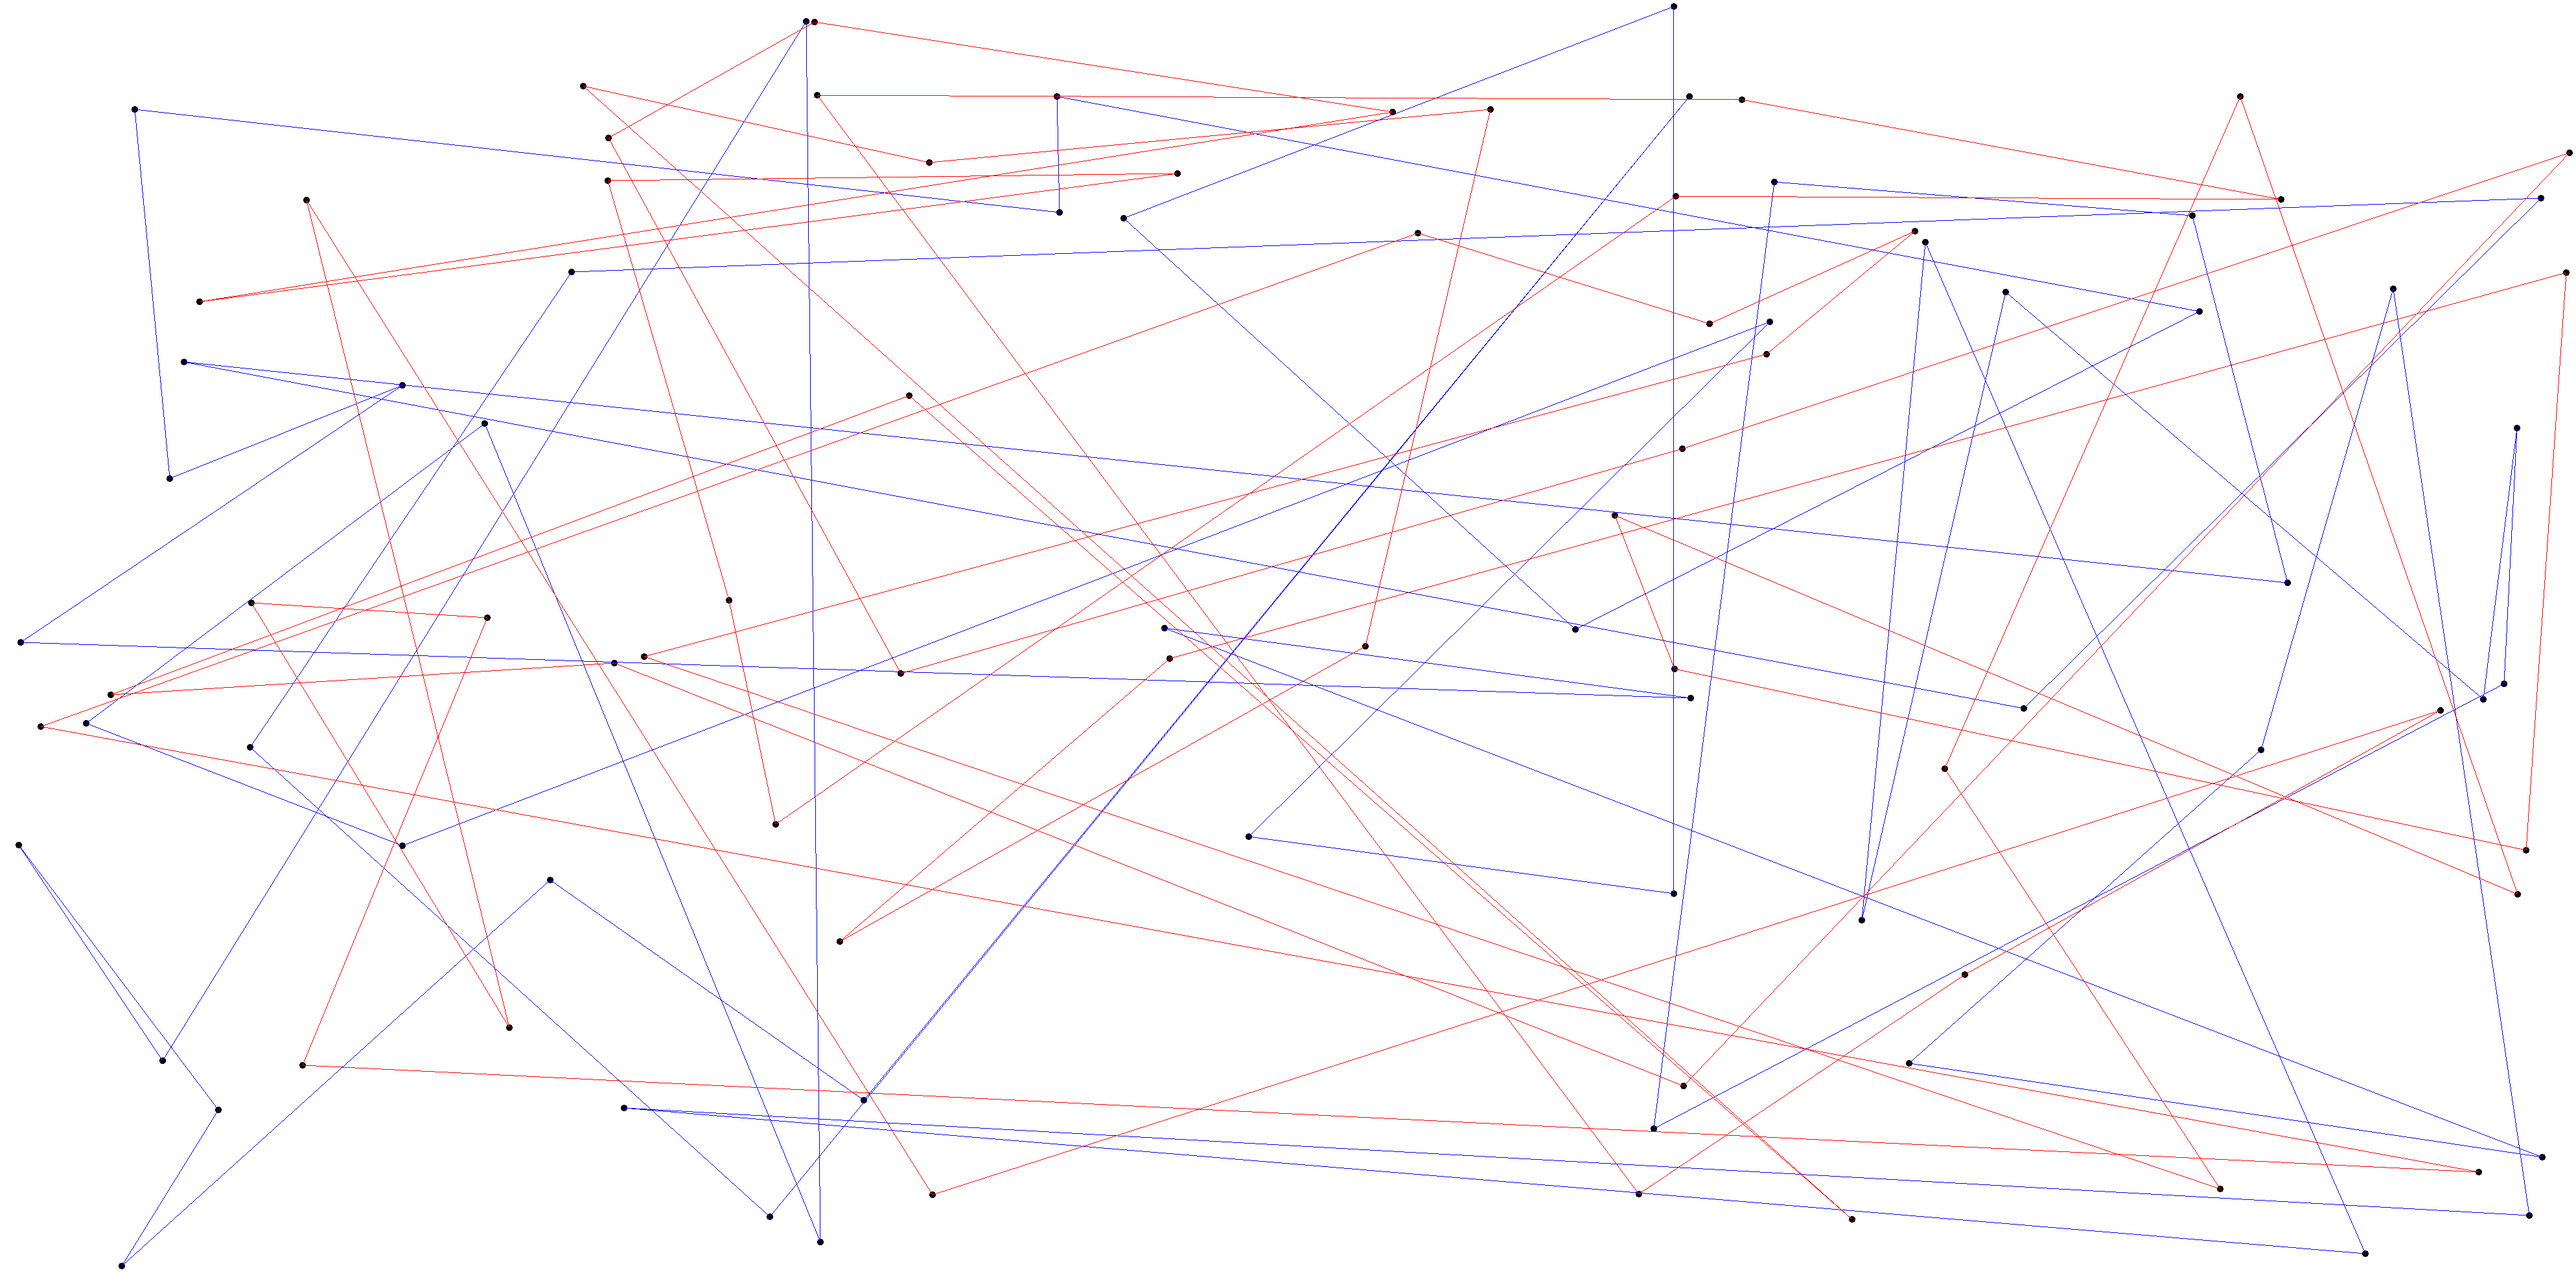
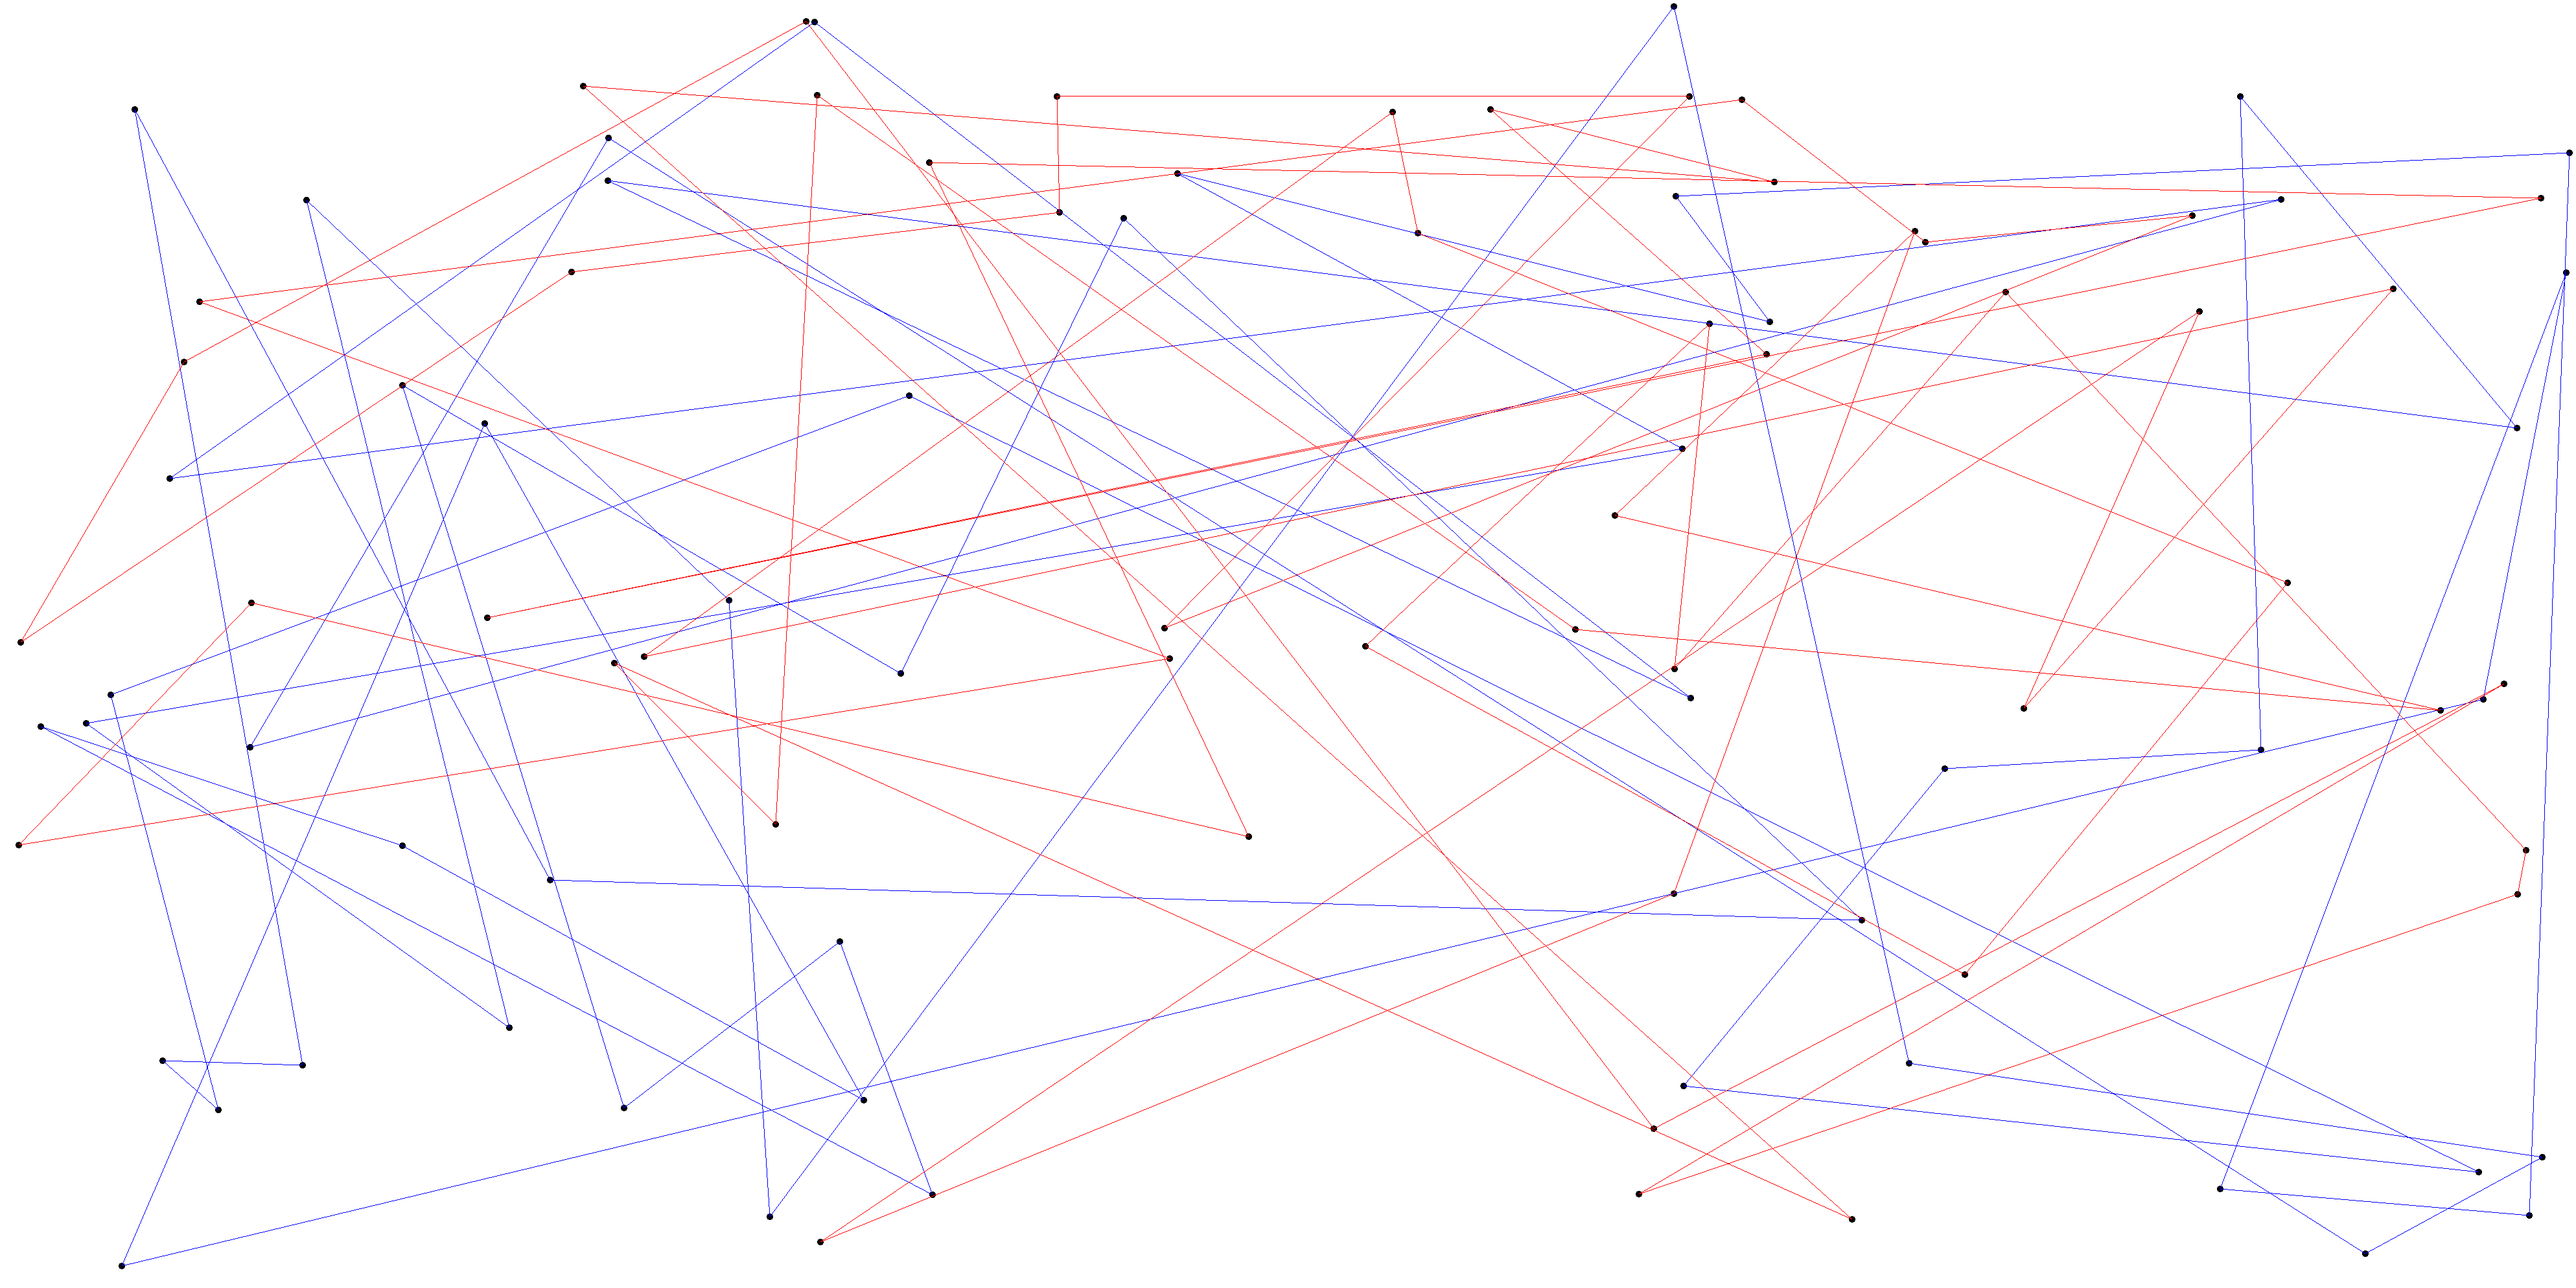
Poprawki w kandydackich

Changed region(s): [[0.6551, 0.2494, 0.6863, 0.2805]]

diff --git a/TSP/main.cpp b/TSP/main.cpp
@@ -96,9 +96,12 @@ std::string* testAlgorithm(std::shared_ptr <Graph>& graph, std::shared_ptr <Abst
 void exercise1()
 {
 	std::shared_ptr<TSPLoader> loader = std::make_shared<TSPLoader>();
-	std::string filenames[2] = { "kroA100.tsp", "kroB100.tsp" };
+	std::string filenames[2] = { "kroA200.tsp", "kroB200.tsp" };
 	std::string algorithmsResults = "";
-	std::string resultDir = "ResultsLab1/";
+	std::string* result;
+	std::string timeResults = "";
+
+	std::string resultDir = "ResultsLab3/";
 	for (int i = 0; i < 2; i++)
 	{
 		auto graph = loader->loadFile("Data/" + filenames[i]);
@@ -106,25 +109,33 @@ void exercise1()
 		std::cout << graph->getName() << std::endl;
 
 		algorithmsResults += graph->getName() + "\n";
-		algorithmsResults += testAlgorithm(graph, std::make_shared<NearestNeighbour>(), loader->getLocation(), resultDir + filenames[i])[0];
-		algorithmsResults += testAlgorithm(graph, std::make_shared<GreedyCycle>(), loader->getLocation(), resultDir + filenames[i])[0];
-		algorithmsResults += testAlgorithm(graph, std::make_shared<RegretHeuristics>(), loader->getLocation(), resultDir + filenames[i])[0];
-		algorithmsResults += testAlgorithm(graph, std::make_shared<RandomCycle>(), loader->getLocation(), resultDir + filenames[i])[0];
+		timeResults += graph->getName() + "\n";
+
+		//algorithmsResults += testAlgorithm(graph, std::make_shared<NearestNeighbour>(), loader->getLocation(), resultDir + filenames[i])[0];
+		//algorithmsResults += testAlgorithm(graph, std::make_shared<GreedyCycle>(), loader->getLocation(), resultDir + filenames[i])[0];
+		result = testAlgorithm(graph, std::make_shared<RegretHeuristics>(), loader->getLocation(), resultDir + filenames[i]);
+		algorithmsResults += result[0];
+		timeResults += result[1];
+		//algorithmsResults += testAlgorithm(graph, std::make_shared<RandomCycle>(), loader->getLocation(), resultDir + filenames[i])[0];
 
 	}
 
 
-	std::ofstream output;
+	std::ofstream output, outputTime;
 	output.open(resultDir + "Wyniki_algorytmow.txt");
 	output << algorithmsResults;
 	output.close();
+
+	outputTime.open(resultDir + "Wyniki_czasowe.txt");
+	outputTime << timeResults;
+	outputTime.close();
 }
 
 std::vector <std::shared_ptr <AbstractAlgorithm>> createAlgorithms(std::shared_ptr <AbstractAlgorithm> baseAlgorithm, std::shared_ptr <MovementManager> innerMove)
 {
 	return std::vector <std::shared_ptr <AbstractAlgorithm>> {
-		std::shared_ptr <AbstractAlgorithm>(new GreedyLocalSearch(baseAlgorithm,
-			innerMove, std::make_shared <OuterVertexSwapManager>())),
+		//std::shared_ptr <AbstractAlgorithm>(new GreedyLocalSearch(baseAlgorithm,
+		//	innerMove, std::make_shared <OuterVertexSwapManager>())),
 		std::shared_ptr <AbstractAlgorithm>(new SteepLocalSearch(baseAlgorithm,
 			innerMove, std::make_shared <OuterVertexSwapManager>()))
 	};
@@ -133,19 +144,19 @@ std::vector <std::shared_ptr <AbstractAlgorithm>> createAlgorithms(std::shared_p
 void exercise2()
 {
 	std::shared_ptr<TSPLoader> loader = std::make_shared<TSPLoader>();
-	std::string filenames[2] = { "kroA100.tsp", "kroB100.tsp" };
+	std::string filenames[2] = { "kroA200.tsp", "kroB200.tsp" };
 	std::string algorithmsResults = "";
 	std::string timeResults = "";
-	std::string resultDir = "ResultsLab2/";
+	std::string resultDir = "ResultsLab3/";
 
 	std::shared_ptr <AbstractAlgorithm> baseAlgorithms[] = {
-		std::make_shared<RegretHeuristics>(),
+		//std::make_shared<RegretHeuristics>(),
 		std::make_shared<RandomCycle>()
 	};
 
 	std::shared_ptr <MovementManager> innerMoves[] = {
-		std::make_shared <InnerEdgeSwapManager>(),
-		std::make_shared <InnerVertexSwapManager>()
+		std::make_shared <InnerEdgeSwapManager>()//,
+		//std::make_shared <InnerVertexSwapManager>()
 	};
 
 	std::string* result;
@@ -177,14 +188,14 @@ void exercise2()
 					delete[] result;
 				}
 
-				auto randomWalker = std::shared_ptr <AbstractAlgorithm>(new RandomWalker(
+				/*auto randomWalker = std::shared_ptr <AbstractAlgorithm>(new RandomWalker(
 					max_time, baseAlgorithms[j], innerMoves[k], std::make_shared <OuterVertexSwapManager>()
 				));
 
 				result = testAlgorithm(graph, randomWalker,
 					loader->getLocation(), resultDir + filenames[i]);
 				algorithmsResults += result[0];
-				timeResults += result[1];
+				timeResults += result[1];*/
 			}
 		}
 

diff --git a/TSP/InnerEdgeSwapManager.cpp b/TSP/InnerEdgeSwapManager.cpp
@@ -26,9 +26,9 @@ void InnerEdgeSwapManager::generateCanditatesMoves(std::shared_ptr<SearchState> 
 
 			//int* closest = getClosest(n, j, graph);
 			for (int k = j + 2; k < state->cycle[i].size(); ++k) {
-				for (int l = 0; l < n; l++)
+				for (int l = 0; l < n; ++l)
 				{
-					if (state->closests[j][l] == state->cycle[1][k])
+					if (state->closests[state->cycle[i][j]][l] == state->cycle[i][k] || state->closests[state->cycle[i][k]][l] == state->cycle[i][j])
 					{
 						moves.push_back(std::shared_ptr <Move>(new InnerEdgeSwap(state, i, j, k)));
 						break;

diff --git a/TSP/OuterVertexSwapManager.cpp b/TSP/OuterVertexSwapManager.cpp
@@ -23,7 +23,7 @@ void OuterVertexSwapManager::generateCanditatesMoves(std::shared_ptr<SearchState
 		for (int k = 0; k < state->cycle[1].size(); ++k) {
 			for (int l = 0; l < n; l++)
 			{
-				if (state->closests[j][l] == state->cycle[1][k])
+				if (state->closests[state->cycle[0][j]][l] == state->cycle[1][k] || state->closests[state->cycle[1][k]][l] == state->cycle[0][j])
 				{
 					moves.push_back(std::shared_ptr <Move>(new OuterVertexSwap(state, j, k)));
 					break;

diff --git a/TSP/InnerVertexSwapManager.cpp b/TSP/InnerVertexSwapManager.cpp
@@ -27,7 +27,7 @@ void InnerVertexSwapManager::generateCanditatesMoves(std::shared_ptr<SearchState
 			for (int k = j + 1; k < state->cycle[i].size(); ++k) {
 				for (int l = 0; l < n; l++)
 				{
-					if (state->closests[j][l] == state->cycle[1][k])
+					if (state->closests[j][l] == state->cycle[i][k])
 					{
 						moves.push_back(std::shared_ptr <Move>(new InnerVertexSwap(state, i, j, k)));
 						break;

diff --git a/TSP/LocalSearch.cpp b/TSP/LocalSearch.cpp
@@ -29,15 +29,15 @@ std::string LocalSearch::getName()
 
 void LocalSearch::calculate(int startingNode)
 {
-	int n = 10;
+	int n = 15;
 	_baseAlgorithm->calculate(startingNode);
 	auto state = std::make_shared <SearchState>(_graph, _baseAlgorithm->getResult(), n);
 
-	
 
 	
 
 	while (true) {
+		
 		_moves.clear();
 		for (auto i : _movementManagers) {
 			//i->generateMoves(state, _moves);

diff --git a/TSP/SearchState.cpp b/TSP/SearchState.cpp
@@ -51,6 +51,15 @@ SearchState::SearchState(std::shared_ptr<Graph> graph, std::shared_ptr<Result> r
 		}
 	}
 
+	/*for (unsigned int k = 0; k < graph->getSize(); k++)
+	{
+		for (int i = 0; i < n; i++)
+		{
+			std::cout<<closests[k][i] <<" ";
+		}
+		std::cout << std::endl;
+	}*/
+
 }
 
 std::shared_ptr<Result> SearchState::getResult() const
